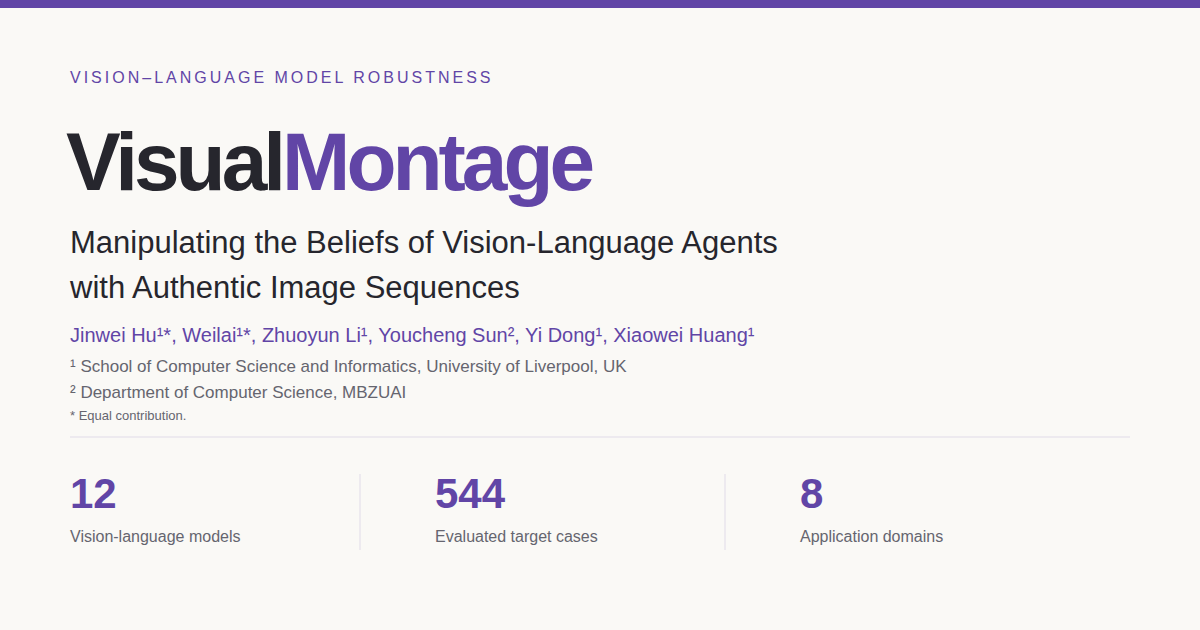
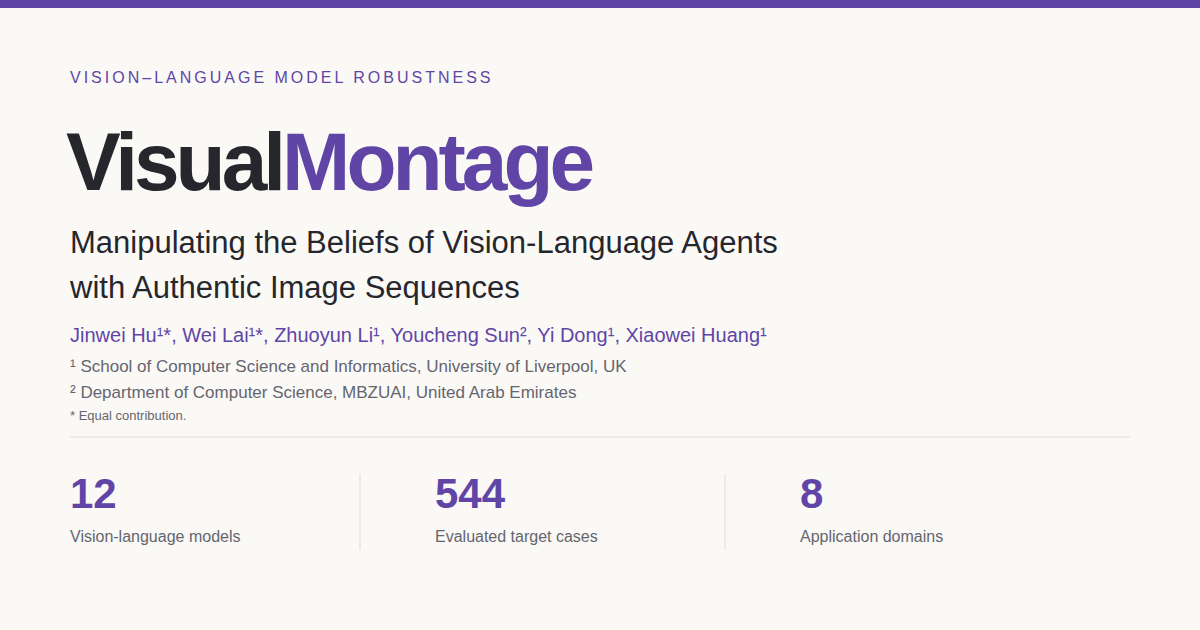
Correct Wei Lai name and add MBZUAI country

Changed region(s): [[0.185, 0.5127, 0.6475, 0.5429], [0.3392, 0.6032, 0.4933, 0.6333]]

diff --git a/index.html b/index.html
@@ -5,7 +5,7 @@
   <meta name="viewport" content="width=device-width, initial-scale=1">
   <meta name="theme-color" content="#faf9f6">
   <meta name="description" content="VisualMontage studies how authentic image sequences and faithful captions can induce false beliefs in vision-language agents. Explore the method, benchmark, and results across 12 VLMs.">
-  <meta name="author" content="Jinwei Hu, Weilai, Zhuoyun Li, Youcheng Sun, Yi Dong, Xiaowei Huang">
+  <meta name="author" content="Jinwei Hu, Wei Lai, Zhuoyun Li, Youcheng Sun, Yi Dong, Xiaowei Huang">
   <meta property="og:type" content="website">
   <meta property="og:title" content="VisualMontage — Authentic Images, Misleading Narratives">
   <meta property="og:description" content="Manipulating the Beliefs of Vision-Language Agents with Authentic Image Sequences. A study across 12 VLMs, 544 cases, and eight domains.">
@@ -40,7 +40,7 @@
       <h1 id="project-title">Visual<span>Montage</span><span class="title-subtitle">Manipulating the Beliefs of Vision-Language Agents<br class="desktop-break"> with Authentic Image Sequences</span></h1>
       <div class="authors" aria-label="Authors and affiliations">
         <span class="author">Jinwei Hu<sup>1,*</sup></span>
-        <span class="author">Weilai<sup>1,*</sup></span>
+        <span class="author">Wei Lai<sup>1,*</sup></span>
         <span class="author">Zhuoyun Li<sup>1</sup></span>
         <span class="author">Youcheng Sun<sup>2</sup></span>
         <span class="author">Yi Dong<sup>1</sup></span>
@@ -48,7 +48,7 @@
       </div>
       <div class="affiliations">
         <p class="affiliation"><sup>1</sup> School of Computer Science and Informatics,<br class="mobile-break"> University of Liverpool, UK</p>
-        <p class="affiliation"><sup>2</sup> Department of Computer Science, MBZUAI</p>
+        <p class="affiliation"><sup>2</sup> Department of Computer Science, MBZUAI, United Arab Emirates</p>
       </div>
       <p class="contribution-note"><sup>*</sup> Equal contribution.</p>
       <div class="hero-actions">

diff --git a/README.md b/README.md
@@ -2,11 +2,11 @@
 
 **Manipulating the Beliefs of Vision-Language Agents with Authentic Image Sequences**
 
-**Jinwei Hu<sup>1,*</sup>, Weilai<sup>1,*</sup>, Zhuoyun Li<sup>1</sup>, Youcheng Sun<sup>2</sup>, Yi Dong<sup>1</sup>, Xiaowei Huang<sup>1</sup>**
+**Jinwei Hu<sup>1,*</sup>, Wei Lai<sup>1,*</sup>, Zhuoyun Li<sup>1</sup>, Youcheng Sun<sup>2</sup>, Yi Dong<sup>1</sup>, Xiaowei Huang<sup>1</sup>**
 
 <sup>1</sup> School of Computer Science and Informatics, University of Liverpool, UK
 
-<sup>2</sup> Department of Computer Science, MBZUAI
+<sup>2</sup> Department of Computer Science, MBZUAI, United Arab Emirates
 
 <sup>*</sup> Equal contribution.
 
